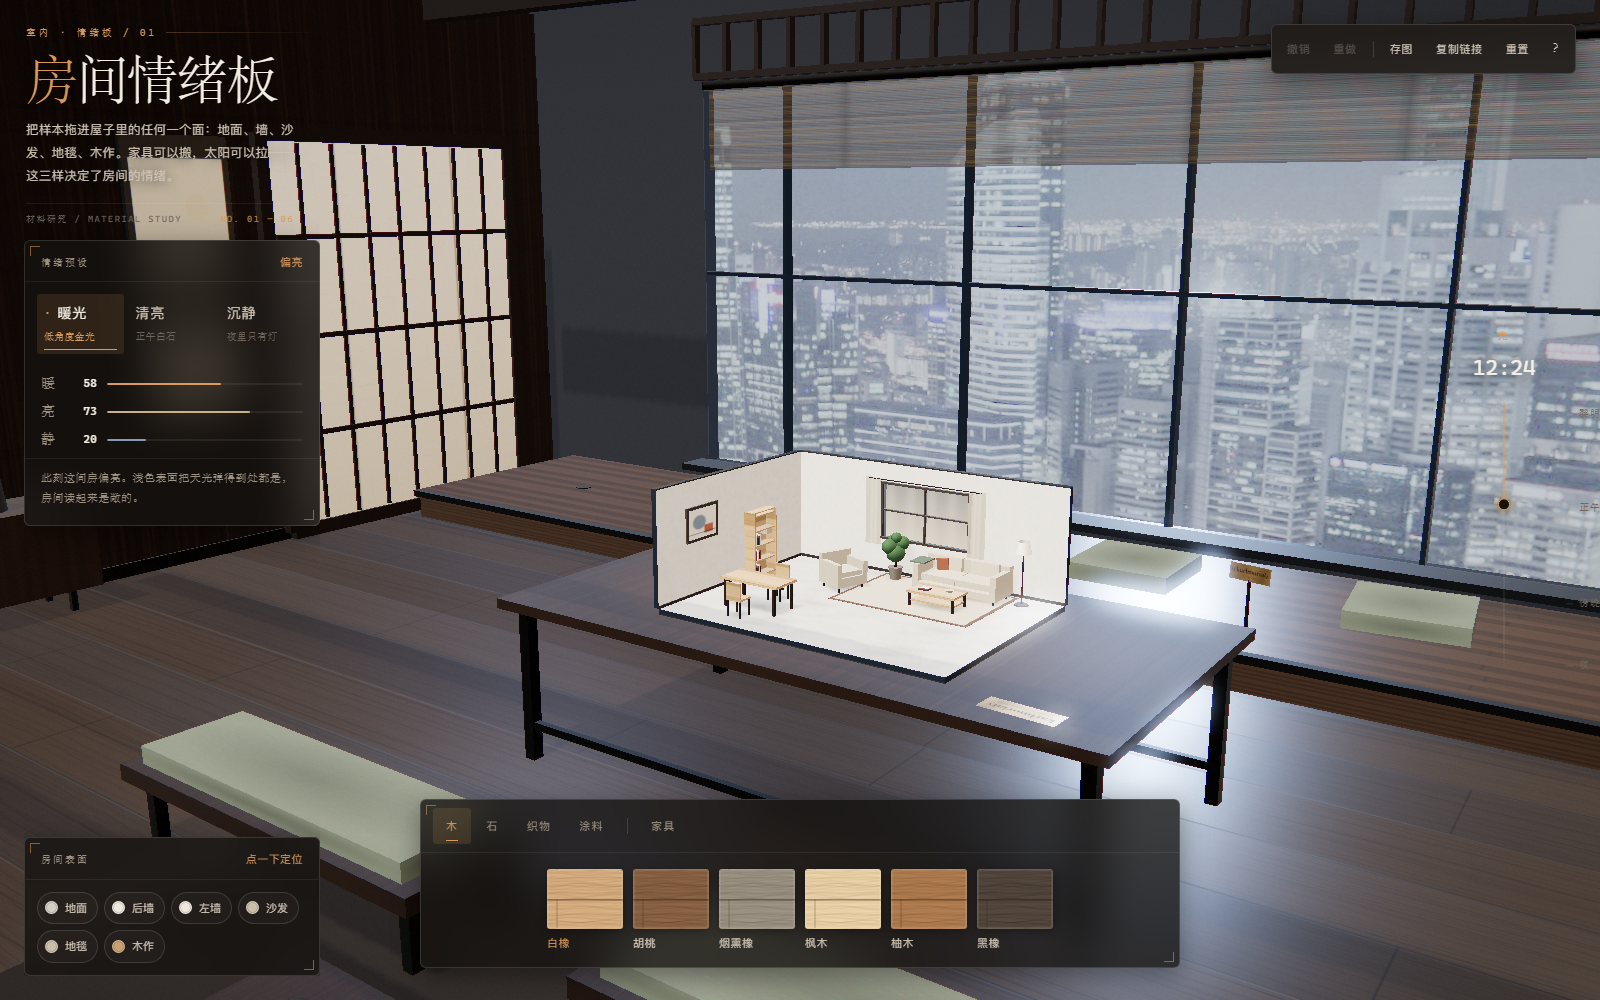
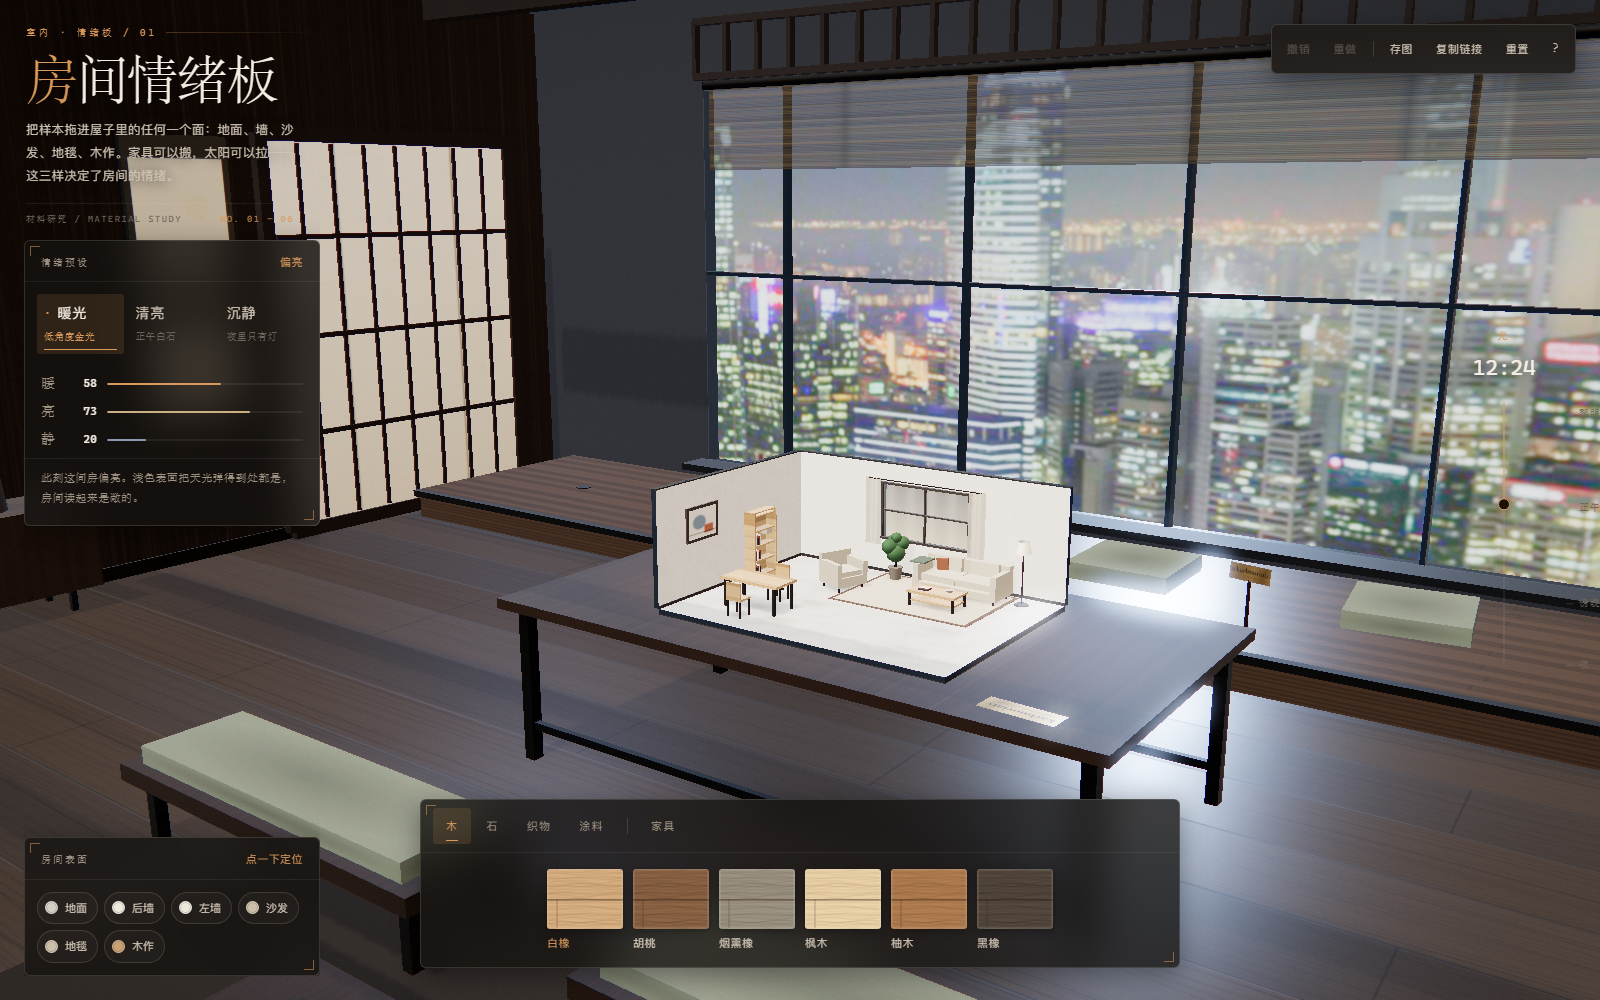
清亮：修正"白皑皑一片死寂"（v5.4）
设计师反馈外景变成白皑皑一片死寂。根因是我上一版把亮度当成"白天"：
LIFT 提到 0.235、加了 0.12 的雾、饱和度压到 0.12，
三者叠加把整幅推成一条浅灰色带，没有层次也没有颜色。

修正三处：
- LIFT 0.235 → 0.175，雾 0.12 → 0.035，饱和度 0.12 → 0.86
  （这张照片的颜色是资产，压掉之后亮度再对也是灰片）
- 高光滚降阈值 0.62 × 0.30 → 0.74 × 0.48，灯有形状不糊成白块
- 天空从"整体提亮"改为"蓝灰渐变铺到 66% + 一道极淡地平线光"：
  昼夜的区分必须由天空说清楚，靠推整体亮度做不到

另外确认了一个硬约束：这张素材只能做成"天光刚起的清晨"。
试过按 12px 邻域检测并压灭满城窗灯，压轻了没用、压重了整座城变雾，
正午是做不到的，除非换素材。

验收：源码版与单文件版各 28 条自测全绿

diff --git a/standalone.html b/standalone.html
@@ -57508,67 +57508,87 @@ scene.add(winGlass);
    结构（楼群轮廓、窗格）完全来自原图，不会有"一块块长方形"。 */
 function gradeDayFromPhoto(img, g, W, H) {
   g.clearRect(0, 0, W, H);
-  g.drawImage(img, 0, 0, W, H);
+
+  /* 轻微软化：窗灯点阵在密集区太碎，blur 1.3px 并成肌理又不糊轮廓。 */
+  const base = document.createElement("canvas");
+  base.width = W; base.height = H;
+  const bg2 = base.getContext("2d");
+  bg2.filter = "blur(1.3px)";
+  bg2.drawImage(img, 0, 0, W, H);
+  bg2.filter = "none";
+  g.drawImage(base, 0, 0);
+
   const id = g.getImageData(0, 0, W, H);
   const d = id.data;
 
-  /* 参数分组：
-     LIFT / GAMMA / GAIN —— 影调（抬多少暗部、中间调在哪、总共给多少亮度）
-     SAT —— 去饱和程度。这张照片是夜城，霓虹红绿蓝到处都是，
-            不去掉的话不管怎么提亮都还是"夜里开灯"。
-     COOL —— 蓝调强度。清亮走清晨蓝调，跟暖光的琥珀黄昏、沉静的深夜拉开。 */
-  const LIFT = 0.235;
-  const GAMMA = 0.42;
-  const GAIN = 0.78;
-  const SAT = 0.12;
-  const COOL = 0.26;
+  /* ---------- 色调：做成清晨 ---------- */
+  /* 这张素材的本质是"入夜后的城市"，几千扇窗都亮着。
+     硬做正午的结果必然是两种：要么白成一片，要么满城灯火还在。
+     所以走"清晨蓝调"——天光刚起、灯还没灭的那一段，
+     既有明亮的天，也保得住这座城市真实的颜色和结构。 */
+  const LIFT = 0.175;
+  const GAMMA = 0.46;
+  const GAIN = 0.86;
+  const SAT = 0.86;
+  const HAZE = 0.035;
 
   for (let i = 0; i < d.length; i += 4) {
     let r = d[i] / 255, gg = d[i + 1] / 255, b = d[i + 2] / 255;
     const l = 0.2126 * r + 0.7152 * gg + 0.0722 * b;
 
-    /* ① 影调：提暗部、压高光。亮窗只保留一点点溢出，不爆白块。 */
+    /* ① 影调：抬暗部，高光滚降。滚降保住灯的形状，不糊成白块。 */
     let y = LIFT + GAIN * Math.pow(l, GAMMA);
-    if (y > 0.62) y = 0.62 + (y - 0.62) * 0.30;
+    if (y > 0.74) y = 0.74 + (y - 0.74) * 0.48;
     const k = l > 1e-4 ? y / l : 0;
     r *= k; gg *= k; b *= k;
 
-    /* ② 去饱和到接近单色。留 12% 只是为了不让它死板 ——
-       这张照片的霓虹红绿蓝太杂，留多了就会在窗上看到粉紫斑。 */
+    /* ② 饱和度：这张照片的颜色是资产，不要压掉 */
     const l2 = 0.2126 * r + 0.7152 * gg + 0.0722 * b;
     r = l2 + (r - l2) * SAT;
     gg = l2 + (gg - l2) * SAT;
     b = l2 + (b - l2) * SAT;
 
-    /* ②b 轻 S 曲线：压平高光后楼体会发糊，补一点中间调对比找回结构 */
+    /* ③ S 曲线：找回中间调对比 */
     const l3 = 0.2126 * r + 0.7152 * gg + 0.0722 * b;
-    const sc = Math.min(1, Math.max(0, (l3 - 0.5) * 1.14 + 0.5)) - l3;
+    const sc = Math.min(1, Math.max(0, (l3 - 0.5) * 1.24 + 0.5)) - l3;
     r += sc; gg += sc; b += sc;
 
-    /* ③ 蓝调：整体向冷走。这步是"清晨"的来源，不是靠加蓝天空。 */
-    const coolK = COOL * (1 - Math.min(1, l2 / 0.85) * 0.45);
-    r *= 1 - coolK * 0.30;
-    gg *= 1 - coolK * 0.10;
-    b = b + (1 - b) * coolK * 0.34;
+    /* ④ 分离色调：亮部偏冷（天光）、暗部偏靛 */
+    const l4 = 0.2126 * r + 0.7152 * gg + 0.0722 * b;
+    const hi = Math.min(1, Math.max(0, (l4 - 0.44) / 0.48));
+    const lo = Math.min(1, Math.max(0, (0.44 - l4) / 0.44));
+    r += hi * -0.014 + lo * -0.020;
+    gg += hi * 0.012 + lo * -0.002;
+    b += hi * 0.048 + lo * 0.040;
 
-    /* ④ 空气雾：统一色温，把远处的楼压进大气里 */
-    const HAZE = 0.12;
-    r += (0.72 - r) * HAZE;
-    gg += (0.80 - gg) * HAZE;
-    b += (0.90 - b) * HAZE;
+    /* ⑤ 极淡大气雾 */
+    r += (0.78 - r) * HAZE;
+    gg += (0.85 - gg) * HAZE;
+    b += (0.93 - b) * HAZE;
 
     d[i] = r * 255; d[i + 1] = gg * 255; d[i + 2] = b * 255;
   }
   g.putImageData(id, 0, 0);
 
-  /* 顶部极轻的提亮：原图天空最暗，压平后会显得头重脚轻。
-     用全高渐变，不会出现硬边。 */
-  const skyLift = g.createLinearGradient(0, 0, 0, H);
-  skyLift.addColorStop(0, "rgba(188,214,238,0.34)");
-  skyLift.addColorStop(0.42, "rgba(188,214,238,0.12)");
-  skyLift.addColorStop(1, "rgba(188,214,238,0)");
-  g.fillStyle = skyLift;
-  g.fillRect(0, 0, W, H);
+  /* ---------- 天空：深蓝 → 地平线暖光 ---------- */
+  /* "清晨"这件事必须由天空说清楚。只把整体提亮是做不出早晨的，
+     必须有"天顶深、地平线亮且偏暖"这个方向性，眼睛才认。 */
+  const sky = g.createLinearGradient(0, 0, 0, H * 0.66);
+  sky.addColorStop(0, "rgba(96,140,196,0.58)");
+  sky.addColorStop(0.24, "rgba(132,170,212,0.48)");
+  sky.addColorStop(0.52, "rgba(176,203,226,0.32)");
+  sky.addColorStop(0.78, "rgba(214,220,224,0.22)");
+  sky.addColorStop(1, "rgba(216,224,228,0)");
+  g.fillStyle = sky;
+  g.fillRect(0, 0, W, H * 0.66);
+
+  /* 地平线一条暖光带：太阳还没出来，但天边已经亮了 */
+  const horizonGlow = g.createLinearGradient(0, H * 0.26, 0, H * 0.52);
+  horizonGlow.addColorStop(0, "rgba(240,238,230,0)");
+  horizonGlow.addColorStop(0.55, "rgba(240,238,230,0.14)");
+  horizonGlow.addColorStop(1, "rgba(240,238,230,0)");
+  g.fillStyle = horizonGlow;
+  g.fillRect(0, H * 0.26, W, H * 0.26);
 }
 
 const viewTex = (() => {

diff --git a/app.js b/app.js
@@ -2153,67 +2153,87 @@ scene.add(winGlass);
    结构（楼群轮廓、窗格）完全来自原图，不会有"一块块长方形"。 */
 function gradeDayFromPhoto(img, g, W, H) {
   g.clearRect(0, 0, W, H);
-  g.drawImage(img, 0, 0, W, H);
+
+  /* 轻微软化：窗灯点阵在密集区太碎，blur 1.3px 并成肌理又不糊轮廓。 */
+  const base = document.createElement("canvas");
+  base.width = W; base.height = H;
+  const bg2 = base.getContext("2d");
+  bg2.filter = "blur(1.3px)";
+  bg2.drawImage(img, 0, 0, W, H);
+  bg2.filter = "none";
+  g.drawImage(base, 0, 0);
+
   const id = g.getImageData(0, 0, W, H);
   const d = id.data;
 
-  /* 参数分组：
-     LIFT / GAMMA / GAIN —— 影调（抬多少暗部、中间调在哪、总共给多少亮度）
-     SAT —— 去饱和程度。这张照片是夜城，霓虹红绿蓝到处都是，
-            不去掉的话不管怎么提亮都还是"夜里开灯"。
-     COOL —— 蓝调强度。清亮走清晨蓝调，跟暖光的琥珀黄昏、沉静的深夜拉开。 */
-  const LIFT = 0.235;
-  const GAMMA = 0.42;
-  const GAIN = 0.78;
-  const SAT = 0.12;
-  const COOL = 0.26;
+  /* ---------- 色调：做成清晨 ---------- */
+  /* 这张素材的本质是"入夜后的城市"，几千扇窗都亮着。
+     硬做正午的结果必然是两种：要么白成一片，要么满城灯火还在。
+     所以走"清晨蓝调"——天光刚起、灯还没灭的那一段，
+     既有明亮的天，也保得住这座城市真实的颜色和结构。 */
+  const LIFT = 0.175;
+  const GAMMA = 0.46;
+  const GAIN = 0.86;
+  const SAT = 0.86;
+  const HAZE = 0.035;
 
   for (let i = 0; i < d.length; i += 4) {
     let r = d[i] / 255, gg = d[i + 1] / 255, b = d[i + 2] / 255;
     const l = 0.2126 * r + 0.7152 * gg + 0.0722 * b;
 
-    /* ① 影调：提暗部、压高光。亮窗只保留一点点溢出，不爆白块。 */
+    /* ① 影调：抬暗部，高光滚降。滚降保住灯的形状，不糊成白块。 */
     let y = LIFT + GAIN * Math.pow(l, GAMMA);
-    if (y > 0.62) y = 0.62 + (y - 0.62) * 0.30;
+    if (y > 0.74) y = 0.74 + (y - 0.74) * 0.48;
     const k = l > 1e-4 ? y / l : 0;
     r *= k; gg *= k; b *= k;
 
-    /* ② 去饱和到接近单色。留 12% 只是为了不让它死板 ——
-       这张照片的霓虹红绿蓝太杂，留多了就会在窗上看到粉紫斑。 */
+    /* ② 饱和度：这张照片的颜色是资产，不要压掉 */
     const l2 = 0.2126 * r + 0.7152 * gg + 0.0722 * b;
     r = l2 + (r - l2) * SAT;
     gg = l2 + (gg - l2) * SAT;
     b = l2 + (b - l2) * SAT;
 
-    /* ②b 轻 S 曲线：压平高光后楼体会发糊，补一点中间调对比找回结构 */
+    /* ③ S 曲线：找回中间调对比 */
     const l3 = 0.2126 * r + 0.7152 * gg + 0.0722 * b;
-    const sc = Math.min(1, Math.max(0, (l3 - 0.5) * 1.14 + 0.5)) - l3;
+    const sc = Math.min(1, Math.max(0, (l3 - 0.5) * 1.24 + 0.5)) - l3;
     r += sc; gg += sc; b += sc;
 
-    /* ③ 蓝调：整体向冷走。这步是"清晨"的来源，不是靠加蓝天空。 */
-    const coolK = COOL * (1 - Math.min(1, l2 / 0.85) * 0.45);
-    r *= 1 - coolK * 0.30;
-    gg *= 1 - coolK * 0.10;
-    b = b + (1 - b) * coolK * 0.34;
+    /* ④ 分离色调：亮部偏冷（天光）、暗部偏靛 */
+    const l4 = 0.2126 * r + 0.7152 * gg + 0.0722 * b;
+    const hi = Math.min(1, Math.max(0, (l4 - 0.44) / 0.48));
+    const lo = Math.min(1, Math.max(0, (0.44 - l4) / 0.44));
+    r += hi * -0.014 + lo * -0.020;
+    gg += hi * 0.012 + lo * -0.002;
+    b += hi * 0.048 + lo * 0.040;
 
-    /* ④ 空气雾：统一色温，把远处的楼压进大气里 */
-    const HAZE = 0.12;
-    r += (0.72 - r) * HAZE;
-    gg += (0.80 - gg) * HAZE;
-    b += (0.90 - b) * HAZE;
+    /* ⑤ 极淡大气雾 */
+    r += (0.78 - r) * HAZE;
+    gg += (0.85 - gg) * HAZE;
+    b += (0.93 - b) * HAZE;
 
     d[i] = r * 255; d[i + 1] = gg * 255; d[i + 2] = b * 255;
   }
   g.putImageData(id, 0, 0);
 
-  /* 顶部极轻的提亮：原图天空最暗，压平后会显得头重脚轻。
-     用全高渐变，不会出现硬边。 */
-  const skyLift = g.createLinearGradient(0, 0, 0, H);
-  skyLift.addColorStop(0, "rgba(188,214,238,0.34)");
-  skyLift.addColorStop(0.42, "rgba(188,214,238,0.12)");
-  skyLift.addColorStop(1, "rgba(188,214,238,0)");
-  g.fillStyle = skyLift;
-  g.fillRect(0, 0, W, H);
+  /* ---------- 天空：深蓝 → 地平线暖光 ---------- */
+  /* "清晨"这件事必须由天空说清楚。只把整体提亮是做不出早晨的，
+     必须有"天顶深、地平线亮且偏暖"这个方向性，眼睛才认。 */
+  const sky = g.createLinearGradient(0, 0, 0, H * 0.66);
+  sky.addColorStop(0, "rgba(96,140,196,0.58)");
+  sky.addColorStop(0.24, "rgba(132,170,212,0.48)");
+  sky.addColorStop(0.52, "rgba(176,203,226,0.32)");
+  sky.addColorStop(0.78, "rgba(214,220,224,0.22)");
+  sky.addColorStop(1, "rgba(216,224,228,0)");
+  g.fillStyle = sky;
+  g.fillRect(0, 0, W, H * 0.66);
+
+  /* 地平线一条暖光带：太阳还没出来，但天边已经亮了 */
+  const horizonGlow = g.createLinearGradient(0, H * 0.26, 0, H * 0.52);
+  horizonGlow.addColorStop(0, "rgba(240,238,230,0)");
+  horizonGlow.addColorStop(0.55, "rgba(240,238,230,0.14)");
+  horizonGlow.addColorStop(1, "rgba(240,238,230,0)");
+  g.fillStyle = horizonGlow;
+  g.fillRect(0, H * 0.26, W, H * 0.26);
 }
 
 const viewTex = (() => {

diff --git a/README.md b/README.md
@@ -12,7 +12,7 @@
 | 预设 | 时间 | 窗外 | 室内 |
 |---|---|---|---|
 | **暖光** | 18:36 | 黄昏版城市：紫靛天空 → 橙金地平线，楼体压暖褐 | 一盏从窗口斜射进来的暖光（`duskSpill`），冷补光同步调暖调弱 |
-| **清亮** | 12:24 | **原照片调色**：清晨蓝调，抬暗部 + 压高光 + 去霓虹 + 冷雾 | 天光涌进屋里（hemi 0.46 / env 0.58 / windowFill 1.05） |
+| **清亮** | 12:24 | **原照片调色**：亮蓝天 + 有重量的城市，保饱和、压高光、S 曲线找对比 | 天光涌进屋里（hemi 0.46 / env 0.58 / windowFill 1.05） |
 | **沉静** | 22:12 | 原始夜景照片（本次未改动） | 只留几盏灯（本次未改动） |
 
 ### 一个根因，两处受害
@@ -43,31 +43,39 @@
 
 ### 白日版怎么从原照片调出来
 
-设计师的要求是明确的：**就用那张照片，改色调**。所以不做结构重绘。
+要求是明确的：**就用那张照片，改色调**。所以不做结构重绘。
 
-中间走过两条错路，记下来避免再犯：
+## 走过的错路（都记下来，避免再犯）
 
-| 做法 | 为什么不行 |
+| 做法 | 出来的东西 |
 |---|---|
-| 提亮 + 去饱和 + 叠蓝天渐变 | 天空有硬边和色阶断层，楼体被雾糊住 |
-| 按天际线重绘楼群 | 出来是一块块矩形，一眼假 |
+| 提亮 + 去饱和 + 叠蓝天渐变 | 一块蓝矩形贴在夜空上，硬边 + 色阶断层 |
+| 按天际线重绘楼群 | 一块块矩形，一眼假 |
+| 只提暗部 + 去饱和 + 加雾 | 白皑皑一片，像下过雪的空城 |
+| 只提亮整体 | 又回到满城灯火，读成夜里 |
 
-两条错路的共同点：都在**改变结构**。真正的做法是只动色调，结构留住。
+前两条错在**动了结构**；后两条错在**把亮度当成"白天"**。
 
-现在 `gradeDayFromPhoto()` 做的是逐像素色调映射，四步：
+## 现在这条：保住对比，用天空说"白天"
 
-1. **影调**：`LIFT + GAIN × l^GAMMA` 抬起暗部；高于 0.62 的部分
-   再乘 0.30 做高光滚降。**滚降是必须的**——之前直接把亮度乘上去，
-   亮窗会爆成白块，整幅发白。
-2. **去饱和到 0.12**：这张照片是夜城，霓虹红绿蓝到处都是。
-   只留 30% 时窗上会出现粉紫斑，留 12% 才干净。
-3. **轻 S 曲线**：压平高光后楼体会发糊，补一点中间调对比找回结构。
-4. **蓝调 + 空气雾**：整体向冷走、叠 12% 大气雾统一色温。
-   这步是"清晨"的来源，不是靠贴一块蓝天空。
+`gradeDayFromPhoto()` 的六步：
 
-**为什么清亮走冷调而不是正午白**：暖光是琥珀黄昏、沉静是深夜，
-这张照片的灯全是亮着的，硬做成正午会同时失真又难看。
-做成清晨蓝调，三个预设正好构成「黄昏 / 清晨 / 深夜」，色相也拉开。
+| 步骤 | 参数 | 作用 |
+|---|---|---|
+| 软化 | `blur(1.3px)` | 窗灯点阵并成肌理；3.4px 会把整座城糊掉 |
+| 影调 | `LIFT 0.175 + 0.86 × l^0.46` | 抬暗部，楼体有重量 |
+| 高光滚降 | `>0.74` 再 `×0.48` | 灯不糊成白块 |
+| 饱和度 | `0.86` | **这张照片的颜色是资产**，之前压到 0.12 就成了黑白照 |
+| S 曲线 | `×1.24` | 找回中间调对比 |
+| 天空 | 蓝灰渐变铺到 66% | **"白天"必须由天空说清楚**，靠整体提亮做不到 |
+
+关键认知：
+1. **不要用"整体亮度"表达白天**。把 LIFT 推高只会得到白皑皑一片；
+   真正区分昼夜的是"天空比城市亮、且是冷的"。
+2. **不要把饱和度压掉**。压掉之后即便亮度对了，也是一张死气沉沉的灰片。
+3. **夜城的窗灯是硬约束**。试过按 12px 邻域检测并压灭窗灯，
+   压得太狠整座城会变成雾；这张素材只能做成"天光刚起的清晨"，
+   不可能做成正午——除非换素材。
 
 ## 署名（v5 新增）
 
